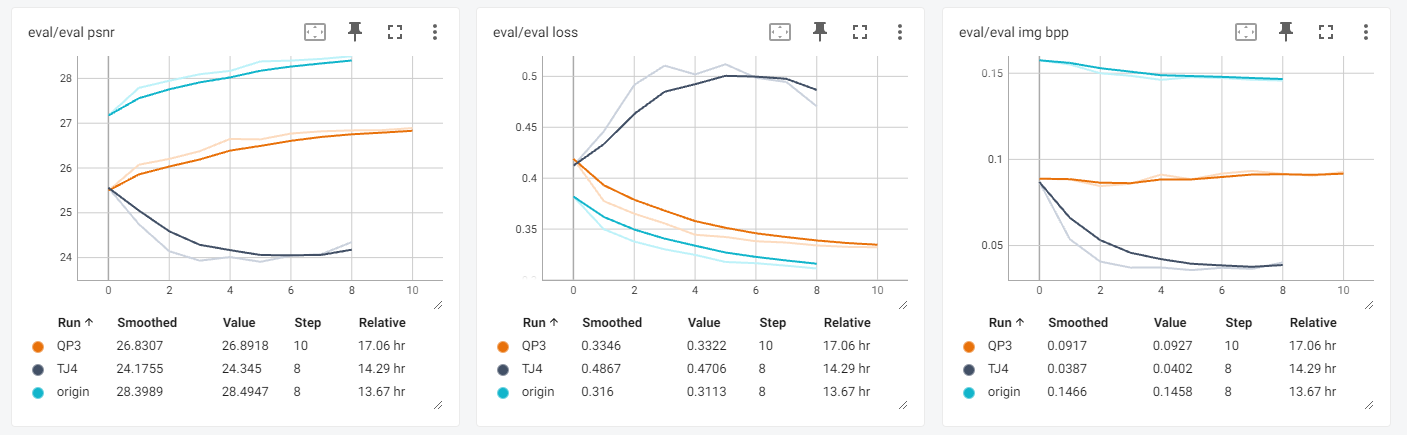
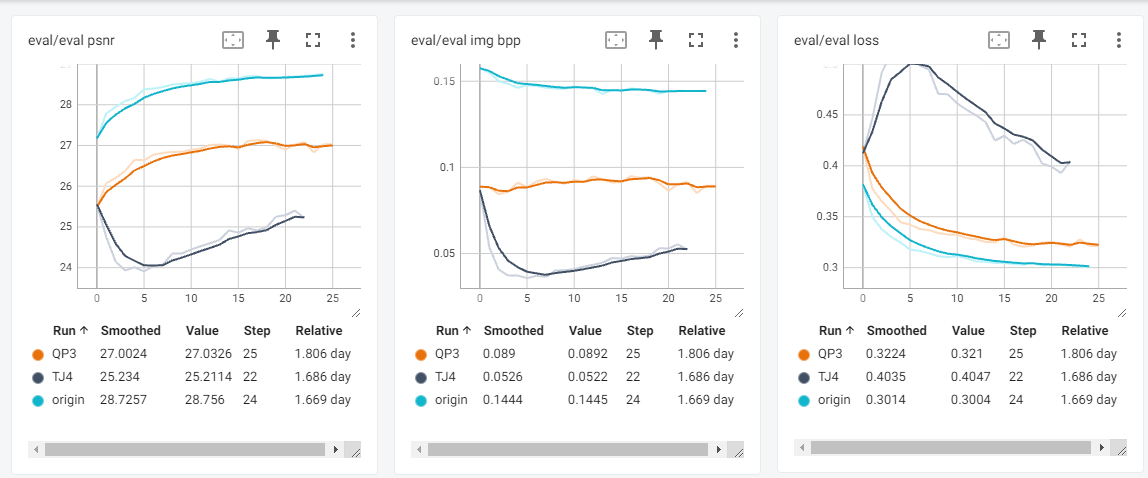
Update log and further experiment results

diff --git a/README.md b/README.md
@@ -21,6 +21,8 @@ Training in progress, results will be released once finished.
 
 ---
 ### Log
+**2025/05/21:** Trajectory Optimization results go crazy and Quadratic Programming doesn't work as expected.
+
 **2025/05/20:** Seems the aforementioned problem still not solved, and experiment results are very strange, might need the official code.
 
 **2025/05/19:** ~~The Quadratic Programming works well, but the model with Trajectory Optimization goes worse.~~ **Fixed**
